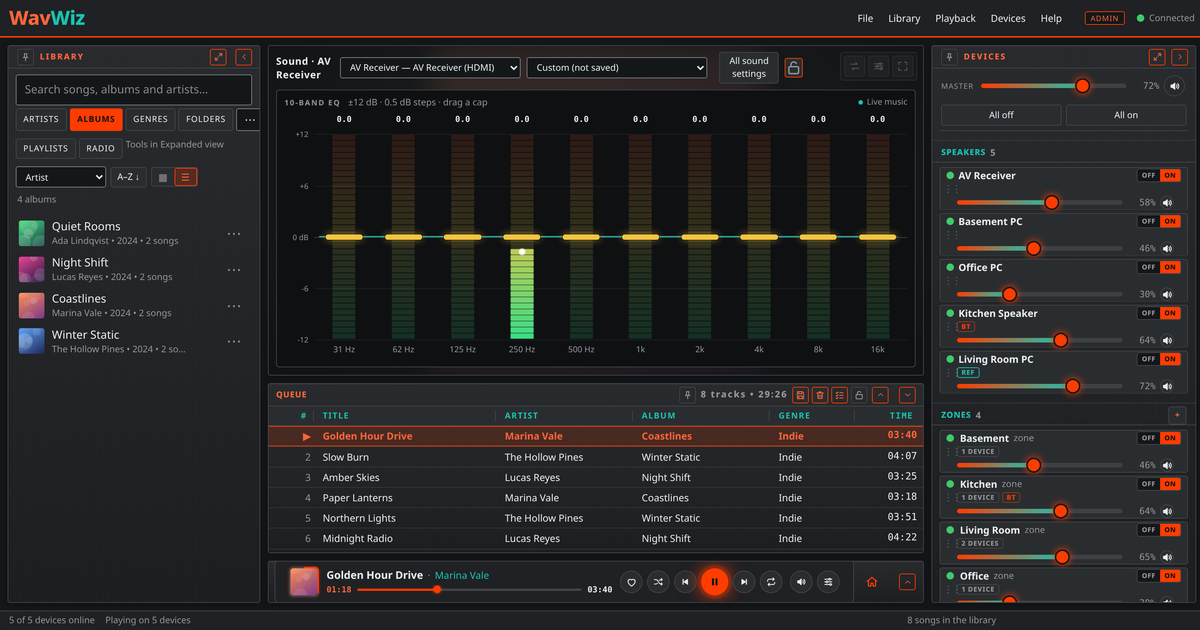
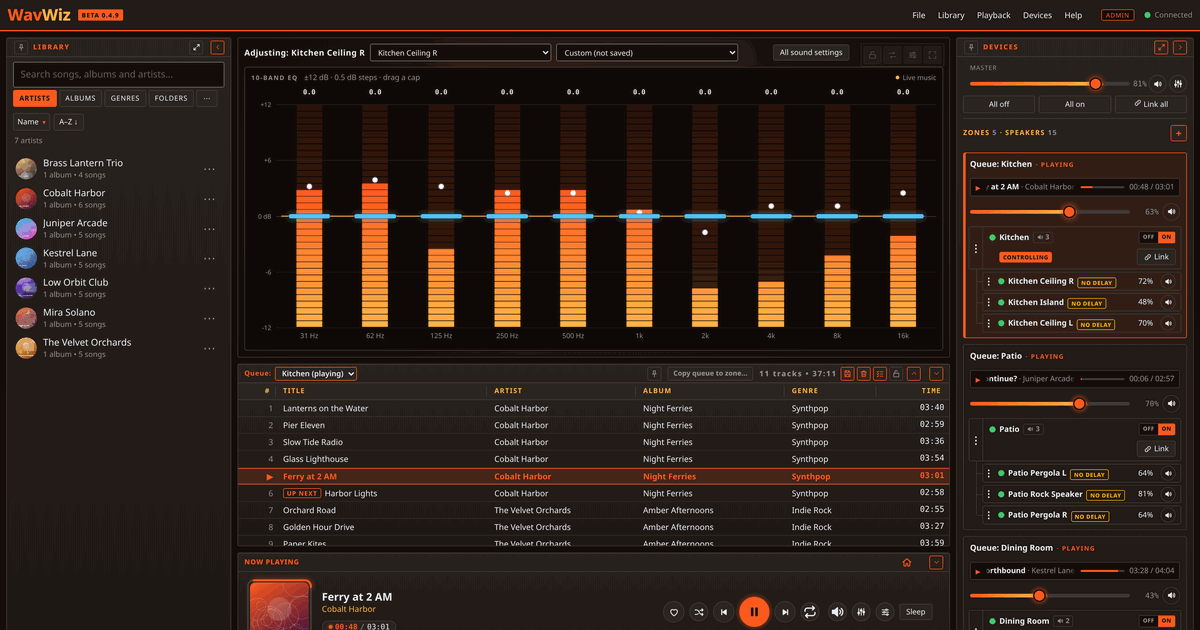
Site: 0.4.9 marketing screenshots (Ember)

diff --git a/index.html b/index.html
@@ -19,7 +19,7 @@
   <meta property="og:image:type" content="image/png">
   <meta property="og:image:width" content="1200">
   <meta property="og:image:height" content="630">
-  <meta property="og:image:alt" content="The WavWiz app window: Library on the left, the live LED-bar EQ in the middle with a slim Now Playing bar below it, Devices on the right (master volume, speakers and zones) and the Queue below the EQ.">
+  <meta property="og:image:alt" content="The WavWiz 0.4.9 window: Library, the live LED EQ, the Queue, Now Playing, and Devices with zones and speakers.">
   <meta property="og:locale" content="en_US">
   <meta property="og:image:secure_url" content="https://wavwiz.com/assets/img/og-image.png">
   <meta name="twitter:card" content="summary_large_image">
@@ -77,7 +77,7 @@
         "processorRequirements": "64-bit (x64)",
         "softwareRequirements": "Microsoft Edge WebView2 Runtime for the player window (included with Windows 11 and current Windows 10)",
         "image": "https://wavwiz.com/assets/img/og-image.png",
-        "screenshot": "https://wavwiz.com/assets/img/wavwiz-app-window.webp",
+        "screenshot": "https://wavwiz.com/assets/img/wavwiz-049-app-window.webp",
         "softwareVersion": "0.4.9",
         "datePublished": "2026-10-24",
         "downloadUrl": "https://github.com/vdubbin74/WavWiz/releases/download/v0.4.9/WavWiz-Setup-0.4.9.exe",
@@ -332,25 +332,25 @@
             <span class="step-num">01</span>
             <h3>Install it on one PC</h3>
             <p>WavWiz is free. Install it on a Windows 10 or 11 PC that stays on. That PC becomes your music server. Have your own music? Point it at a folder on the PC or a NAS share. It&rsquo;s optional.</p>
-            <div class="step-media"><img src="assets/img/wavwiz-step-installer.webp" width="720" height="620" loading="lazy" decoding="async" alt="The WavWiz installer on Windows."></div>
+            <div class="step-media"><img src="assets/img/wavwiz-049-step-setup.webp" width="720" height="592" loading="lazy" decoding="async" alt="The Welcome to WavWiz screen on first run: choose an administrator password, repeat it, then Create and continue."></div>
           </li>
           <li class="card step reveal">
             <span class="step-num">02</span>
             <h3>Add your speakers</h3>
             <p>Use what you already own. Any Windows PC with WavWiz Player plays through its own speakers: wired, USB, HDMI to a TV or receiver, or Bluetooth. Phones and tablets just open a web page and join as a speaker, no app needed.</p>
-            <div class="step-media"><img src="assets/img/wavwiz-devices-bar.webp" width="800" height="1000" loading="lazy" decoding="async" alt="The WavWiz Devices bar with master volume and five speakers, each with an on and off switch and volume."></div>
+            <div class="step-media"><img src="assets/img/wavwiz-049-step-speakers.webp" width="600" height="750" loading="lazy" decoding="async" alt="WavWiz Devices: master volume with All off, All on and Link all, then the Kitchen and Patio zones playing, each with its speakers, their volumes and on and off switches."></div>
           </li>
           <li class="card step reveal">
             <span class="step-num">03</span>
             <h3>Make zones and line them up</h3>
             <p>Group speakers into zones like Kitchen or Basement. Calibrate each speaker once with a PC mic, or set its delay by ear, so every zone plays in sync with no echo.</p>
-            <div class="step-media"><img src="assets/img/wavwiz-app-window-960.webp" width="960" height="502" loading="lazy" decoding="async" alt="The WavWiz app window with the library, the EQ and Now Playing in the middle, and Devices on the right with master volume, speakers and zones."></div>
+            <div class="step-media"><img src="assets/img/wavwiz-049-step-zones.webp" width="600" height="600" loading="lazy" decoding="async" alt="Zones in WavWiz: Patio, Dining Room and Office each play their own song, with a zone volume, a Link button and the speakers in each zone."></div>
           </li>
           <li class="card step reveal">
             <span class="step-num">04</span>
             <h3>Play from anywhere</h3>
             <p><b>No music library? No problem.</b> AirPlay from any app on your iPhone, iPad or Mac to one zone or to &ldquo;WavWiz &ndash; Everywhere&rdquo;. Your phone is the remote.</p>
-            <div class="step-media"><img src="assets/img/wavwiz-step-phone-iphone.webp" width="600" height="1176" loading="lazy" decoding="async" alt="WavWiz Devices in an iPhone web browser: master volume and speakers playing in sync, each with its own switch and volume."></div>
+            <div class="step-media"><img src="assets/img/wavwiz-049-step-phone.webp" width="600" height="1298" loading="lazy" decoding="async" alt="The WavWiz full-screen remote on an iPhone, controlling the Kitchen zone: cover art, Glass Lighthouse by Cobalt Harbor, seek bar, play controls, volume and Up next."></div>
           </li>
         </ol>
       </div>
@@ -398,8 +398,8 @@
           <h2 id="app-title">One window runs <span class="accent-t">every zone</span>.</h2>
         </header>
         <figure class="app-frame reveal">
-          <img src="assets/img/wavwiz-app-window.webp" srcset="assets/img/wavwiz-app-window-960.webp 960w, assets/img/wavwiz-app-window.webp 1600w" sizes="(max-width: 1200px) calc(100vw - 36px), 1152px" width="1600" height="837" loading="lazy" decoding="async" alt="The WavWiz app window. Library panel on the left, the 10-band LED-bar EQ moving with live music in the middle and a slim one-line Now Playing bar below it, Devices on the right with master volume, speakers and zones, and the Queue below the EQ. The All sound settings button and the EQ padlock sit above the bands.">
-          <figcaption>The WavWiz window: Library, the EQ with its All sound settings button and padlock, the Queue, Now Playing, and the Devices bar.</figcaption>
+          <img src="assets/img/wavwiz-049-app-window.webp" srcset="assets/img/wavwiz-049-app-window-960.webp 960w, assets/img/wavwiz-049-app-window.webp 1600w" sizes="(max-width: 1200px) calc(100vw - 36px), 1152px" width="1600" height="900" decoding="async" alt="The WavWiz 0.4.9 window: the Library on the left, the live LED EQ and the Queue in the middle, Now Playing along the bottom, and Devices on the right with master volume, zones and speakers.">
+          <figcaption>The WavWiz window: Library, the live LED EQ, the Queue, Now Playing, and Devices with every zone.</figcaption>
         </figure>
       </div>
     </section>
@@ -473,16 +473,16 @@
             <li><b>Phones and tablets</b>Open the page in a browser to play as a speaker, or just to control the music without playing. Smart-TV browsers are still in testing, so a PC plugged into the TV is the surest bet.</li>
           </ul>
             <figure class="shot shot-tall reveal" data-optional-shot hidden>
-              <img src="assets/img/wavwiz-devices-bar.webp" width="800" height="1000" loading="lazy" decoding="async" alt="The WavWiz Devices bar: master volume with All off and All on, then five speakers (AV Receiver, Basement PC, Office PC, Kitchen Speaker and Living Room PC), each with an on/off switch and volume.">
-              <figcaption>The Devices bar: master volume, and each speaker with its on/off switch and volume.</figcaption>
+              <img src="assets/img/wavwiz-049-step-speakers.webp" width="600" height="750" loading="lazy" decoding="async" alt="WavWiz Devices: master volume with All off, All on and Link all, then the Kitchen and Patio zones playing, each with its speakers, their volumes and on and off switches.">
+              <figcaption>Devices: master volume, then each zone with its song, volume and speakers.</figcaption>
             </figure>
             <figure class="shot reveal" data-optional-shot hidden>
-              <img src="assets/img/wavwiz-devices-expanded.webp" width="1600" height="900" loading="lazy" decoding="async" alt="The expanded Devices view: Scenes and Schedules on the left, the Basement, Kitchen, Living Room and Office zones in the middle, and the five speakers with their output devices on the right.">
-              <figcaption>Expanded Devices: Scenes &amp; Schedules, Zones and Speakers side by side.</figcaption>
+              <img src="assets/img/wavwiz-049-devices-expanded.webp" width="1600" height="900" loading="lazy" decoding="async" alt="The expanded Devices view in WavWiz 0.4.9: Scenes and Schedules on the left, a selected speaker in the middle, and the zone tree on the right with each zone playing its own song.">
+              <figcaption>Expanded Devices: Scenes &amp; Schedules, the selected speaker, and every zone.</figcaption>
             </figure>
             <figure class="shot reveal" data-optional-shot hidden>
-              <img src="assets/img/wavwiz-speaker-settings.webp" width="1600" height="900" loading="lazy" decoding="async" alt="Speaker Settings for one speaker: volume, volume cap, delay, balance, bass and treble sliders, the 10-band EQ with a padlock, and the output for the Kitchen Speaker, a Bluetooth speaker with a 187 ms delay.">
-              <figcaption>Speaker Settings: volume, cap, delay, balance, bass and treble sliders, the EQ with a padlock, and the output.</figcaption>
+              <img src="assets/img/wavwiz-049-master-volume.webp" width="1600" height="900" loading="lazy" decoding="async" alt="The Master Volume mixer: every zone with its speakers and their volume sliders in one window.">
+              <figcaption>The Master Volume mixer: every zone and speaker in one window.</figcaption>
             </figure>
         </div>
       </div>
@@ -566,7 +566,7 @@
         </header>
         <div class="eqviz-grid">
           <figure class="card eqviz-tile reveal">
-            <img src="assets/img/wavwiz-eq-led-bars.webp" width="748" height="338" loading="lazy" decoding="async" alt="The WavWiz 10-band EQ in the LED bars style: each band's bar moves with the real level of that frequency, with a draggable cap on every band.">
+            <img src="assets/img/wavwiz-049-eq-leds.webp" width="960" height="540" loading="lazy" decoding="async" alt="The WavWiz 10-band EQ in the LED bars style mid-song: the orange LED segments in every band are lit to the live level of the music.">
             <figcaption><span class="eqviz-kind eqviz-eq">EQ</span>LED bars</figcaption>
           </figure>
           <figure class="card eqviz-tile reveal">
